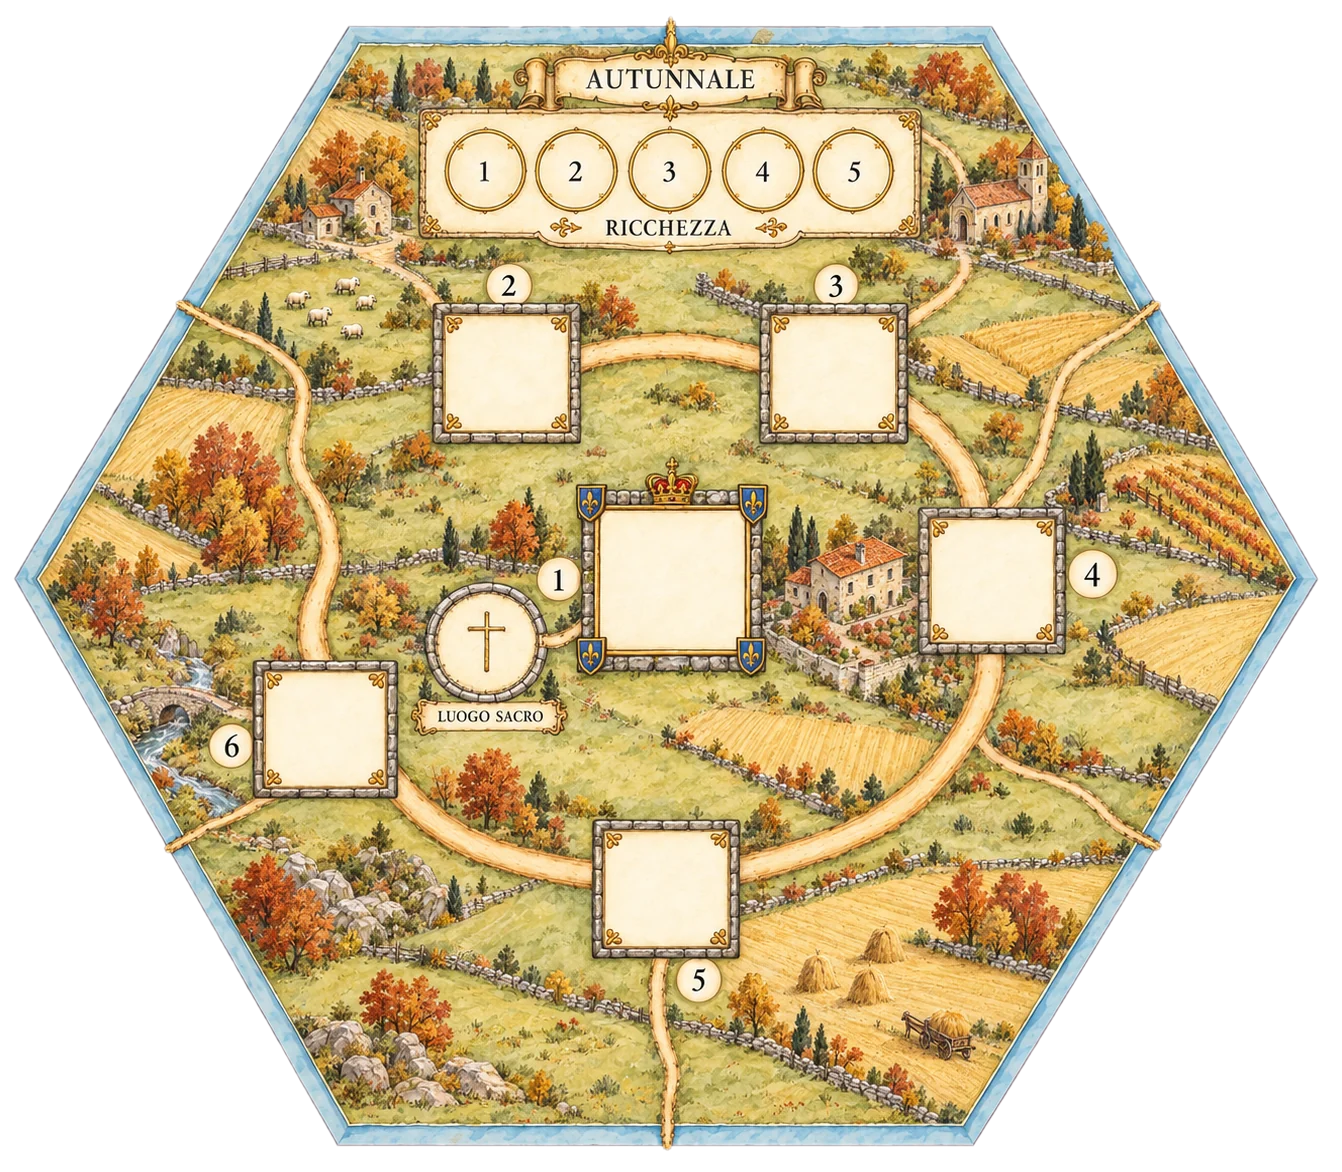
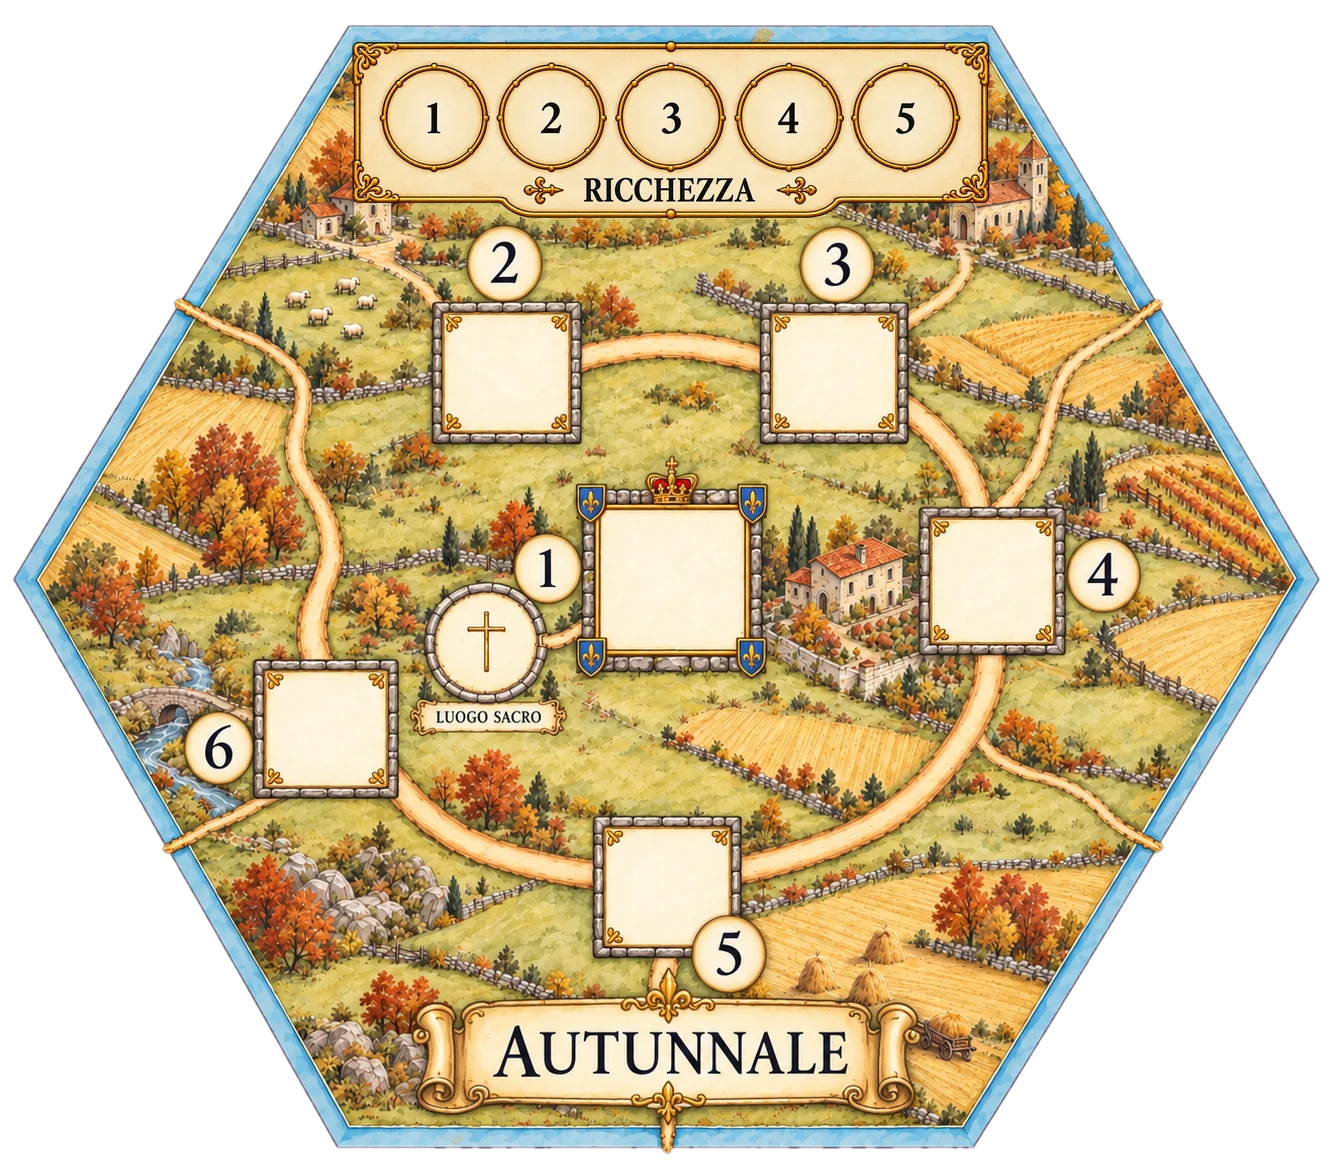
Tessere dei regni v0.4: numeri più grandi, nome in basso, Ricchezza ingrandita
Claude-Session: https://claude.ai/code/session_013fiTyPBdZtBncrrF6hUvDa

diff --git a/tools/tessere_v04.py b/tools/tessere_v04.py
@@ -1,0 +1,35 @@
+"""Tessere dei regni v0.4 (Seven_Kingdom_7_Regni_Illustrati_A4_v04.pdf): il dipinto di ogni regno più la
+traccia della Ricchezza ingrandita, che nel PDF è un'immagine a parte sovrapposta in alto.
+Uso: python3 tools/tessere_v04.py <cartella con il PDF>"""
+import os, sys, subprocess, tempfile, glob
+from PIL import Image
+sys.path.insert(0, os.path.dirname(__file__))
+import prepara_asset as P
+
+PDF = "Seven_Kingdom_7_Regni_Illustrati_A4_v04.pdf"
+# posizioni nel PDF (punti): tessera e traccia della Ricchezza
+TILE = (8.132909, 164.549469, 587.138855, 676.033691)
+TRACK = (150.792374, 172.006195, 444.338193, 269.818603)
+ORDER = ["capitale", "boschivo", "fluviale", "montano", "autunnale", "collinare", "palustre"]
+
+
+def main(src):
+    pdf = os.path.join(src, PDF)
+    d = tempfile.mkdtemp()
+    subprocess.run(["pdfimages", "-png", pdf, os.path.join(d, "i")], check=True)
+    files = sorted(glob.glob(os.path.join(d, "i-*.png")))
+    # per pagina: dipinto, traccia, maschera della traccia
+    sx = 1342 / (TILE[2] - TILE[0])
+    sy = 1172 / (TILE[3] - TILE[1])
+    box = [round((TRACK[0] - TILE[0]) * sx), round((TRACK[1] - TILE[1]) * sy), round((TRACK[2] - TILE[0]) * sx), round((TRACK[3] - TILE[1]) * sy)]
+    for k, t in enumerate(ORDER):
+        tile = Image.open(files[3 * k]).convert("RGBA")
+        tr = Image.open(files[3 * k + 1]).convert("RGBA")
+        tr.putalpha(Image.open(files[3 * k + 2]).convert("L"))
+        tr = tr.resize((box[2] - box[0], box[3] - box[1]), Image.LANCZOS)
+        tile.alpha_composite(tr, (box[0], box[1]))
+        P.save(P.hex_alpha(tile), P.out("tiles", t + ".webp"), q=86)
+
+
+if __name__ == "__main__":
+    main(sys.argv[1])
